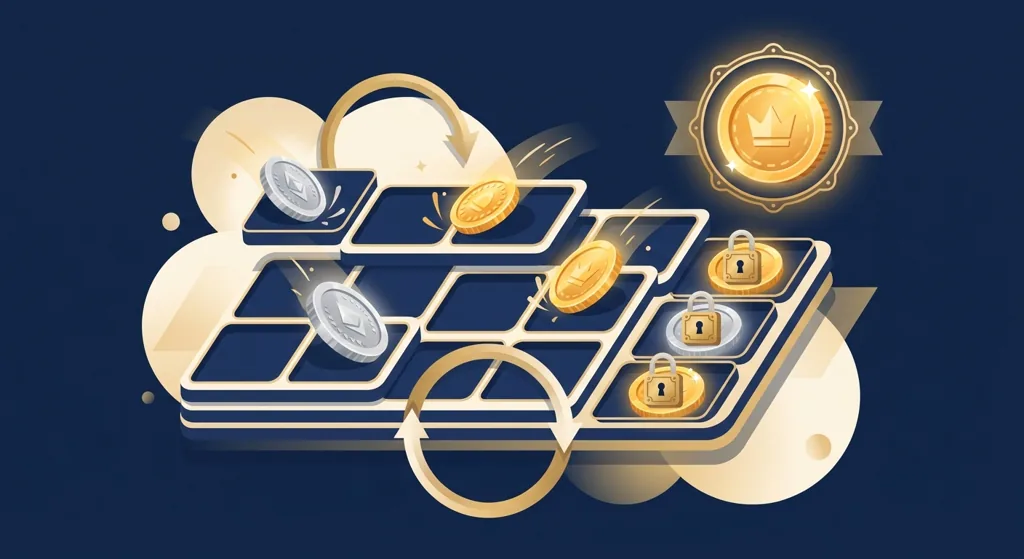
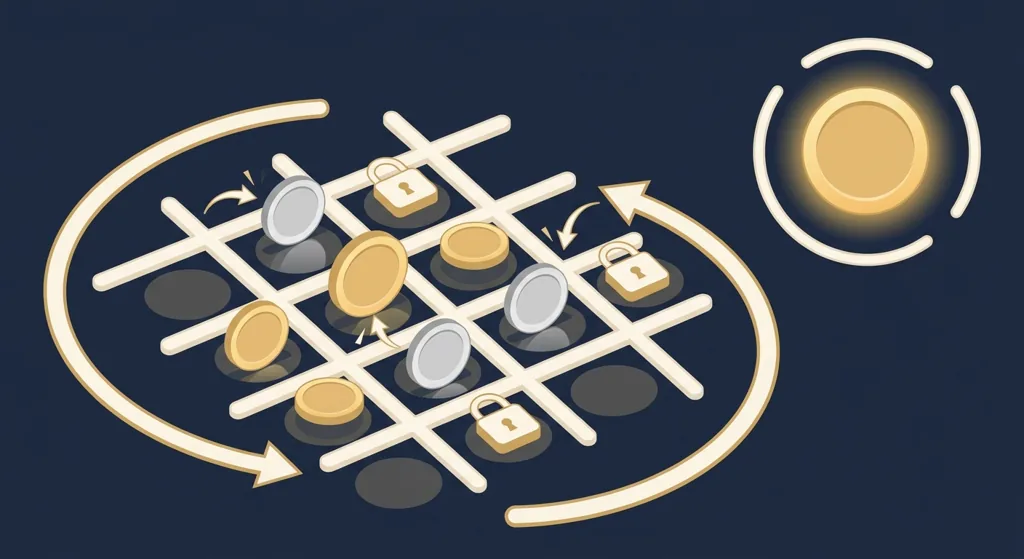
content(2026-09-12-hold-and-win): image fix pass 1 (apply review)
Regenerated the hero with plain blank gold/silver coins (no currency or crypto
logos, per review 1) locking with padlocks into a grid, respin arrows, a plain
fixed-prize disc. Updated the hero ALT to match the visual. No article numbers,
links, RG, disclosures, dates, byline or brand changed.

Claude-Session: https://claude.ai/code/session_01QS2nBhKY66LxeWMaVMorfY

diff --git a/VsichkiKazina/articles/2026-09-12-hold-and-win/05b-final-draft.md b/VsichkiKazina/articles/2026-09-12-hold-and-win/05b-final-draft.md
@@ -5,7 +5,7 @@ Meta description: Hold & Win / Hold and Spin: монети се заключва
 
 # Hold & Win (Hold and Spin): как работят респините с монети и джакпоти
 
-![Монети се заключват в клетките на решетка около катинар, метафора за механиката Hold & Win](images/hold-and-win-moneti-zakljuchvane-hero.webp)
+![Монети се заключват с катинари в клетките на решетка, докато кръгови стрелки подсказват респините, метафора за механиката Hold & Win](images/hold-and-win-moneti-zakljuchvane-hero.webp)
 
 Hold & Win, наричан още Hold and Spin или просто респин, е бонус рунд с една задача: монети падат по екрана, заключват се на място и кратка серия завъртания се опитва да напълни решетката, преди да свърши. Всяка заключена монета носи число, а най-голямото от тези числа е фиксирано още преди да седнеш да играеш. То не расте, докато въртиш, и не се пълни от други играчи. Затова единственото, което тежи в този рунд, е колко монети ще задържиш, преди респините да свършат.
 
